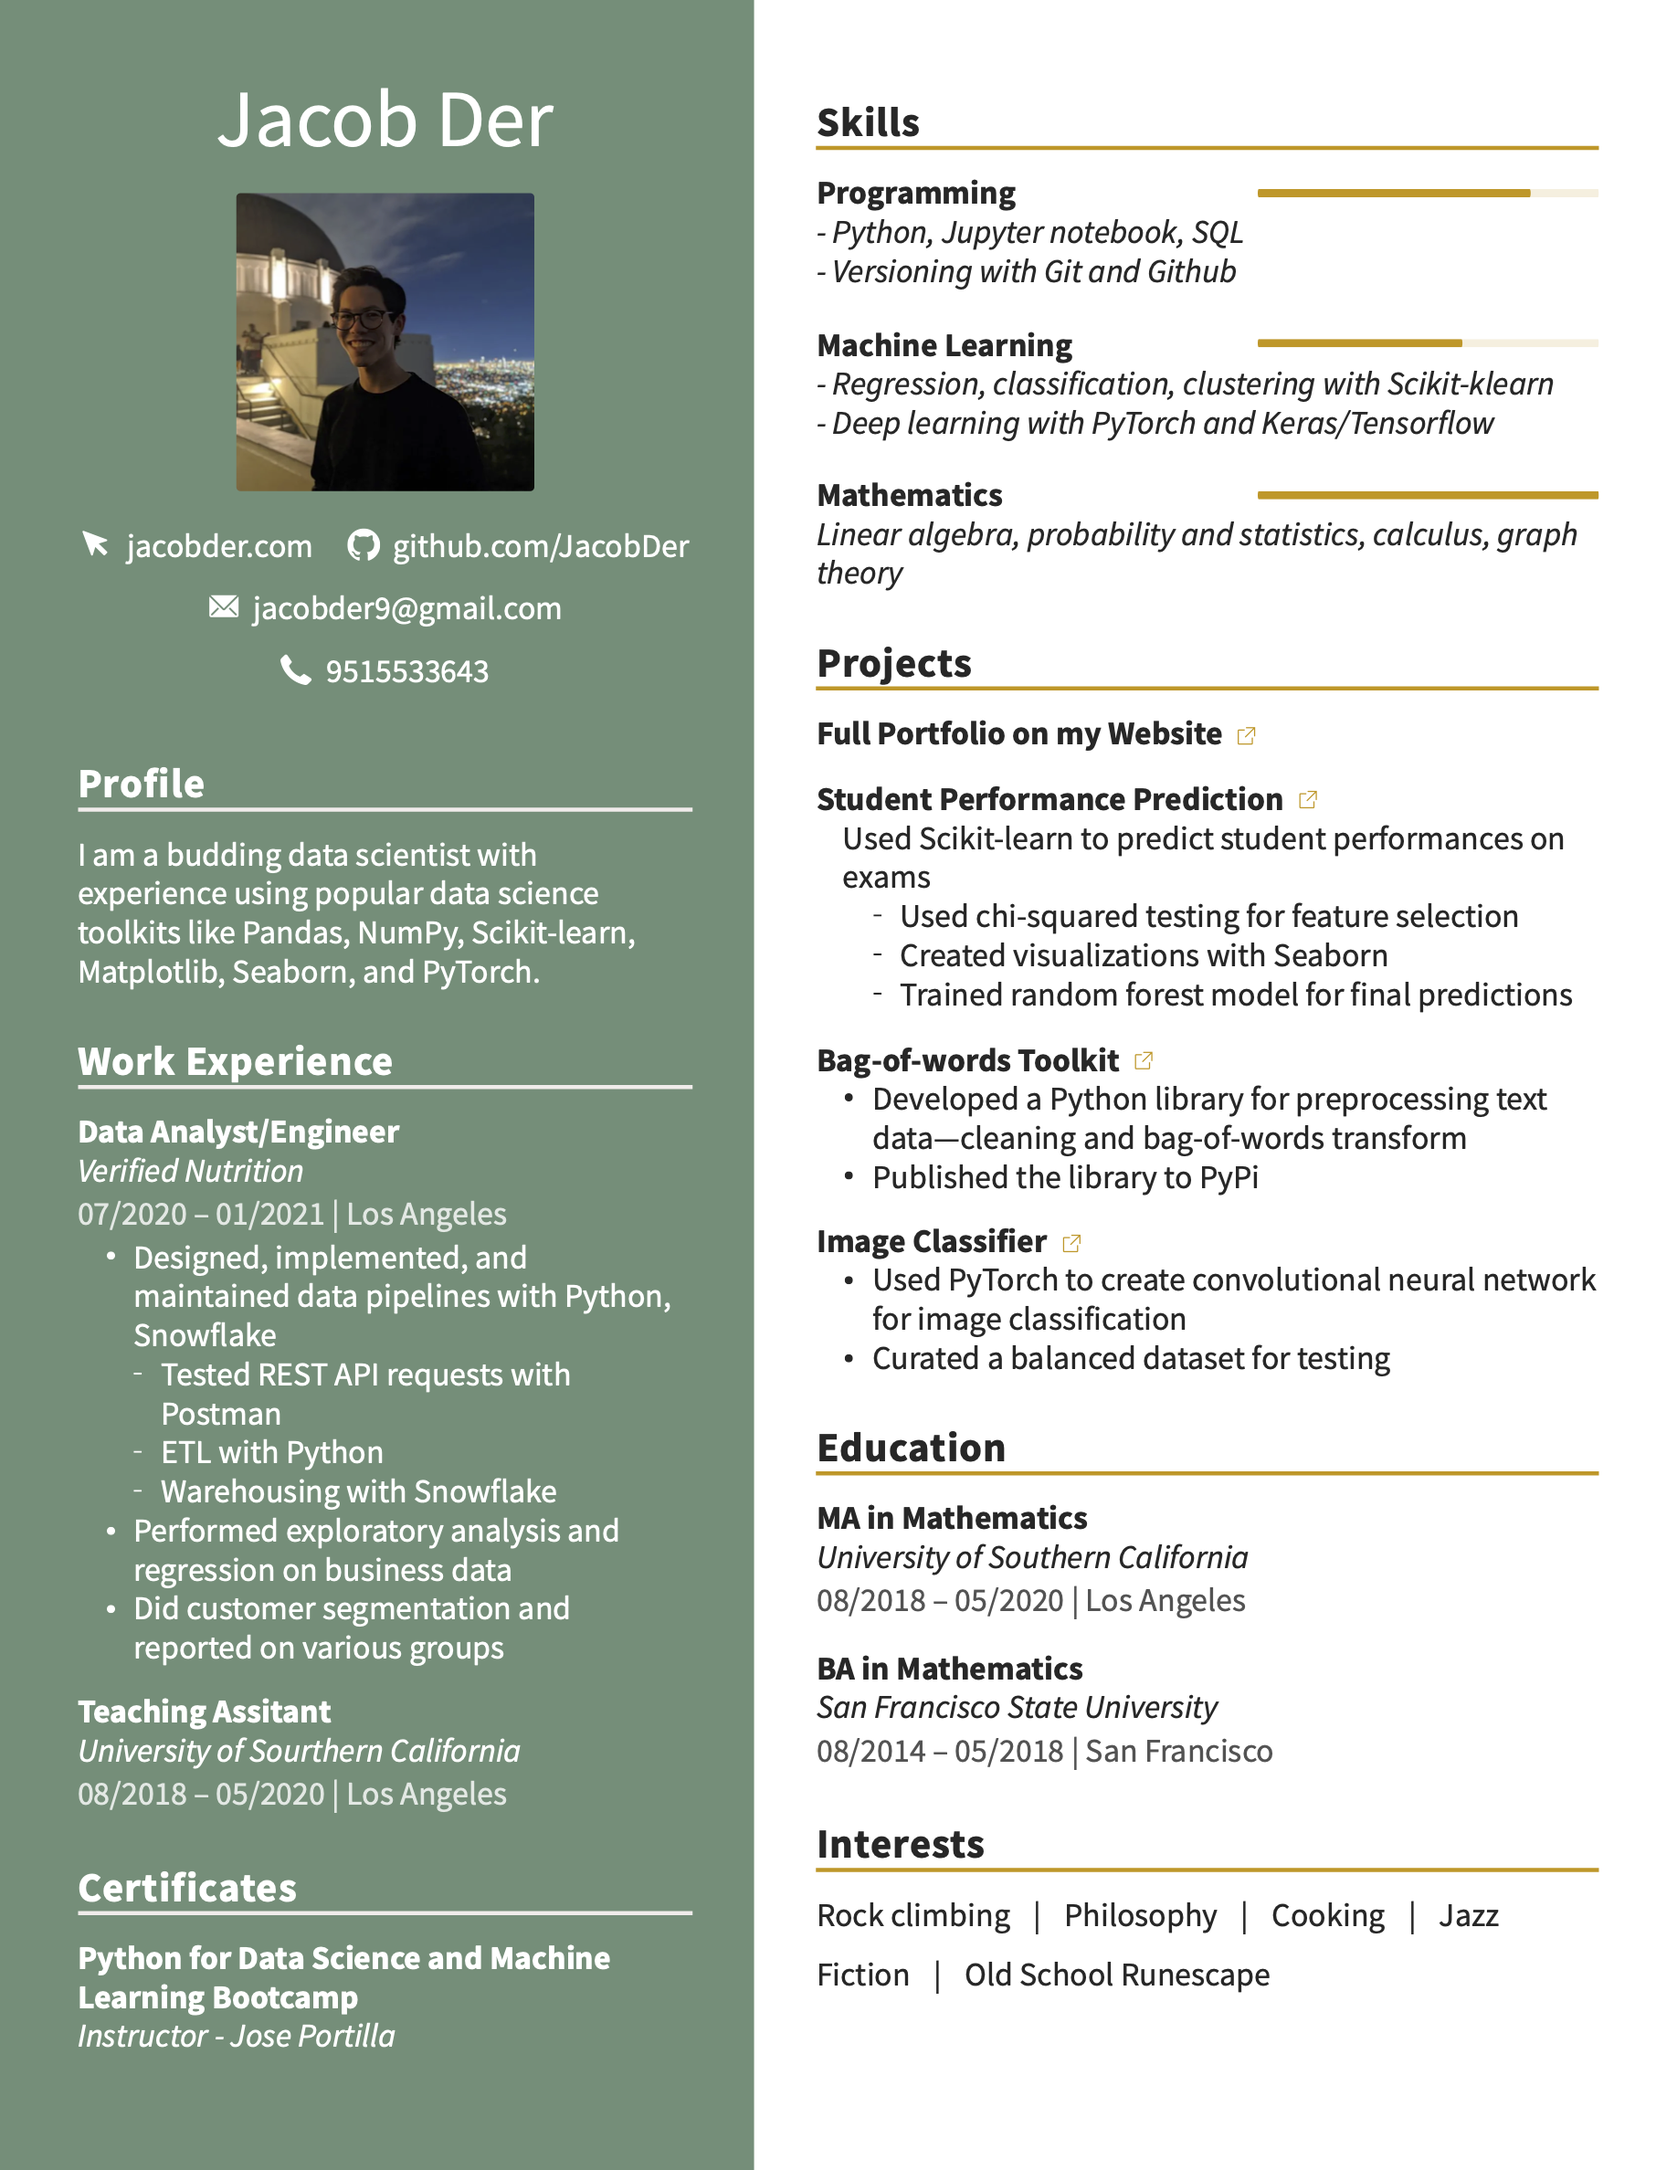
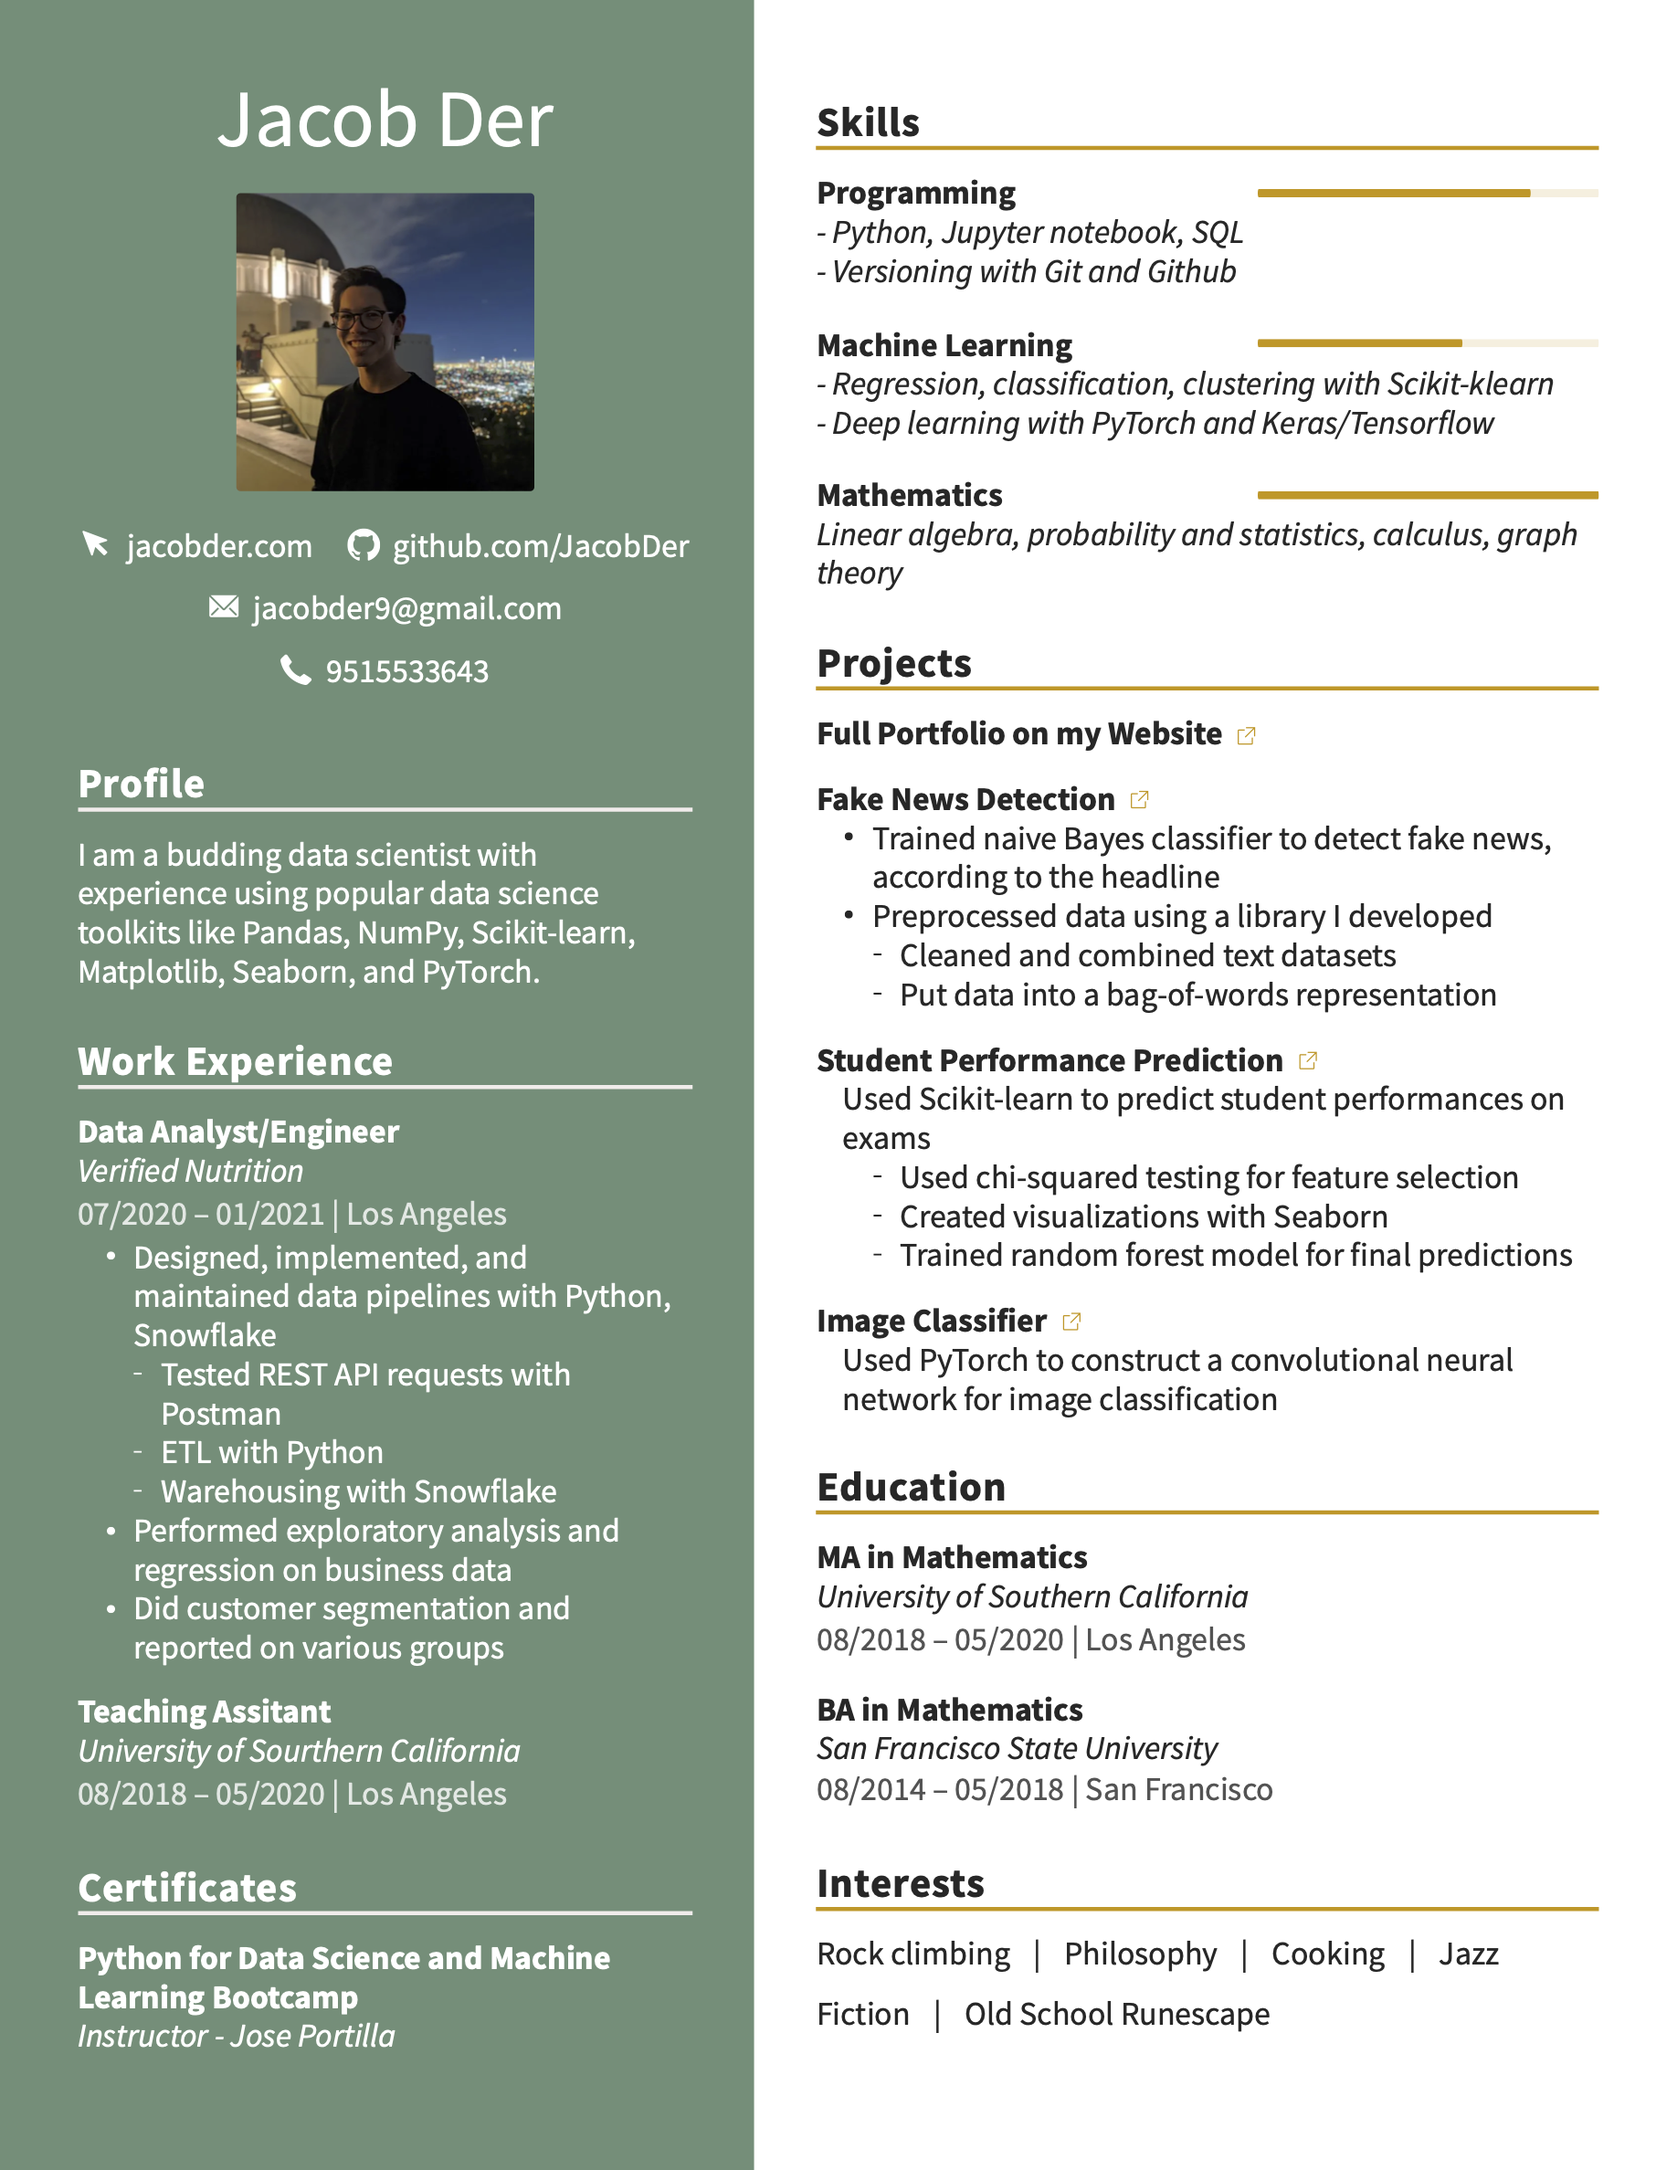
new post/update resume

Changed region(s): [[0.4657, 0.3426, 0.9314, 0.9343]]

diff --git a/nlp.html b/nlp.html
@@ -40,6 +40,18 @@
                             <h2><a href="#">Natural Language Processing</a></h2>
                         </div>
                     </header>
+                    <h1>Fake News Detection</h1>
+                    <a href="https://github.com/JacobDer/fake-news-detection">View full project here</a>
+                    <br></br>
+                    <p>
+                    In this NLP/classification project, I trained a naive Bayes classifier to detect whether
+                    or not a news article is fake news, based on the article's headline. This was achieved by 
+                    transforming a dataset of news articles into a bag-of-words representation (with the help 
+                    of textbag) and training a multinomial naive Bayes classifier on the data. Data and description
+                    can be found
+                    <a href="https://www.kaggle.com/clmentbisaillon/fake-and-real-news-dataset">here</a>.
+                    </p>
+                    
                     <h1>Bag-of-words toolkit</h1>
                     <a href="https://github.com/JacobDer/textbag">View full project here</a>
                     <br></br>
